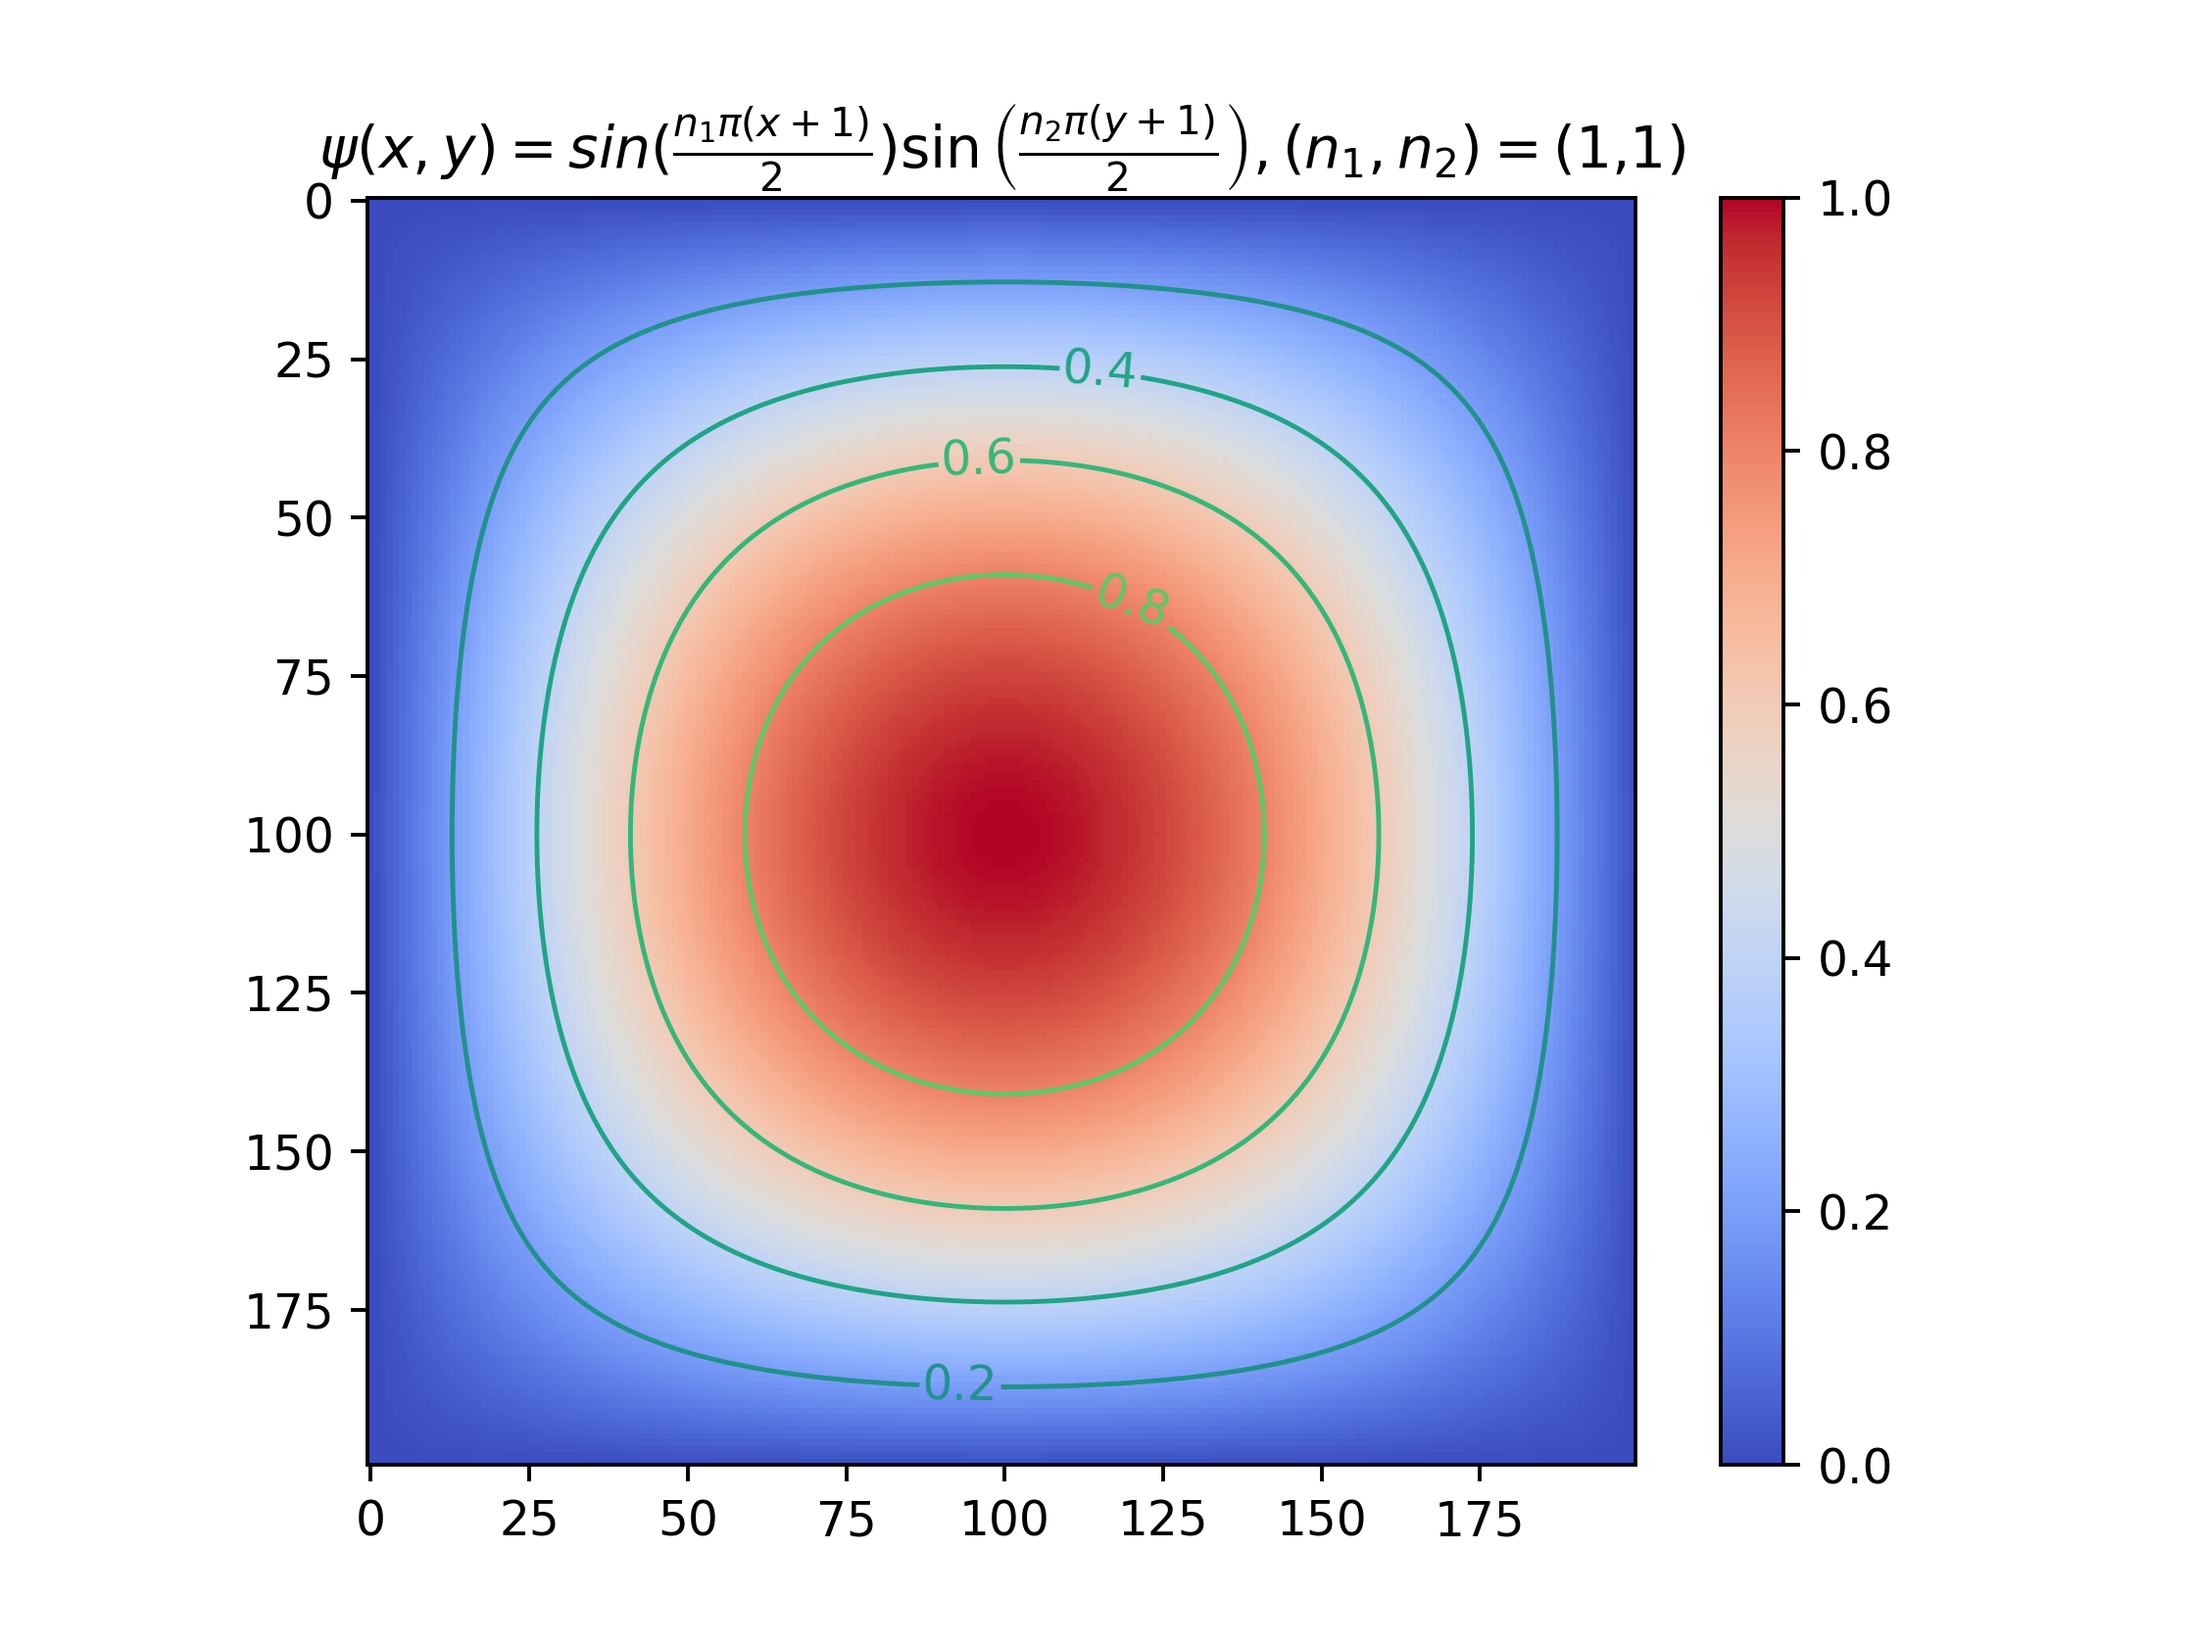
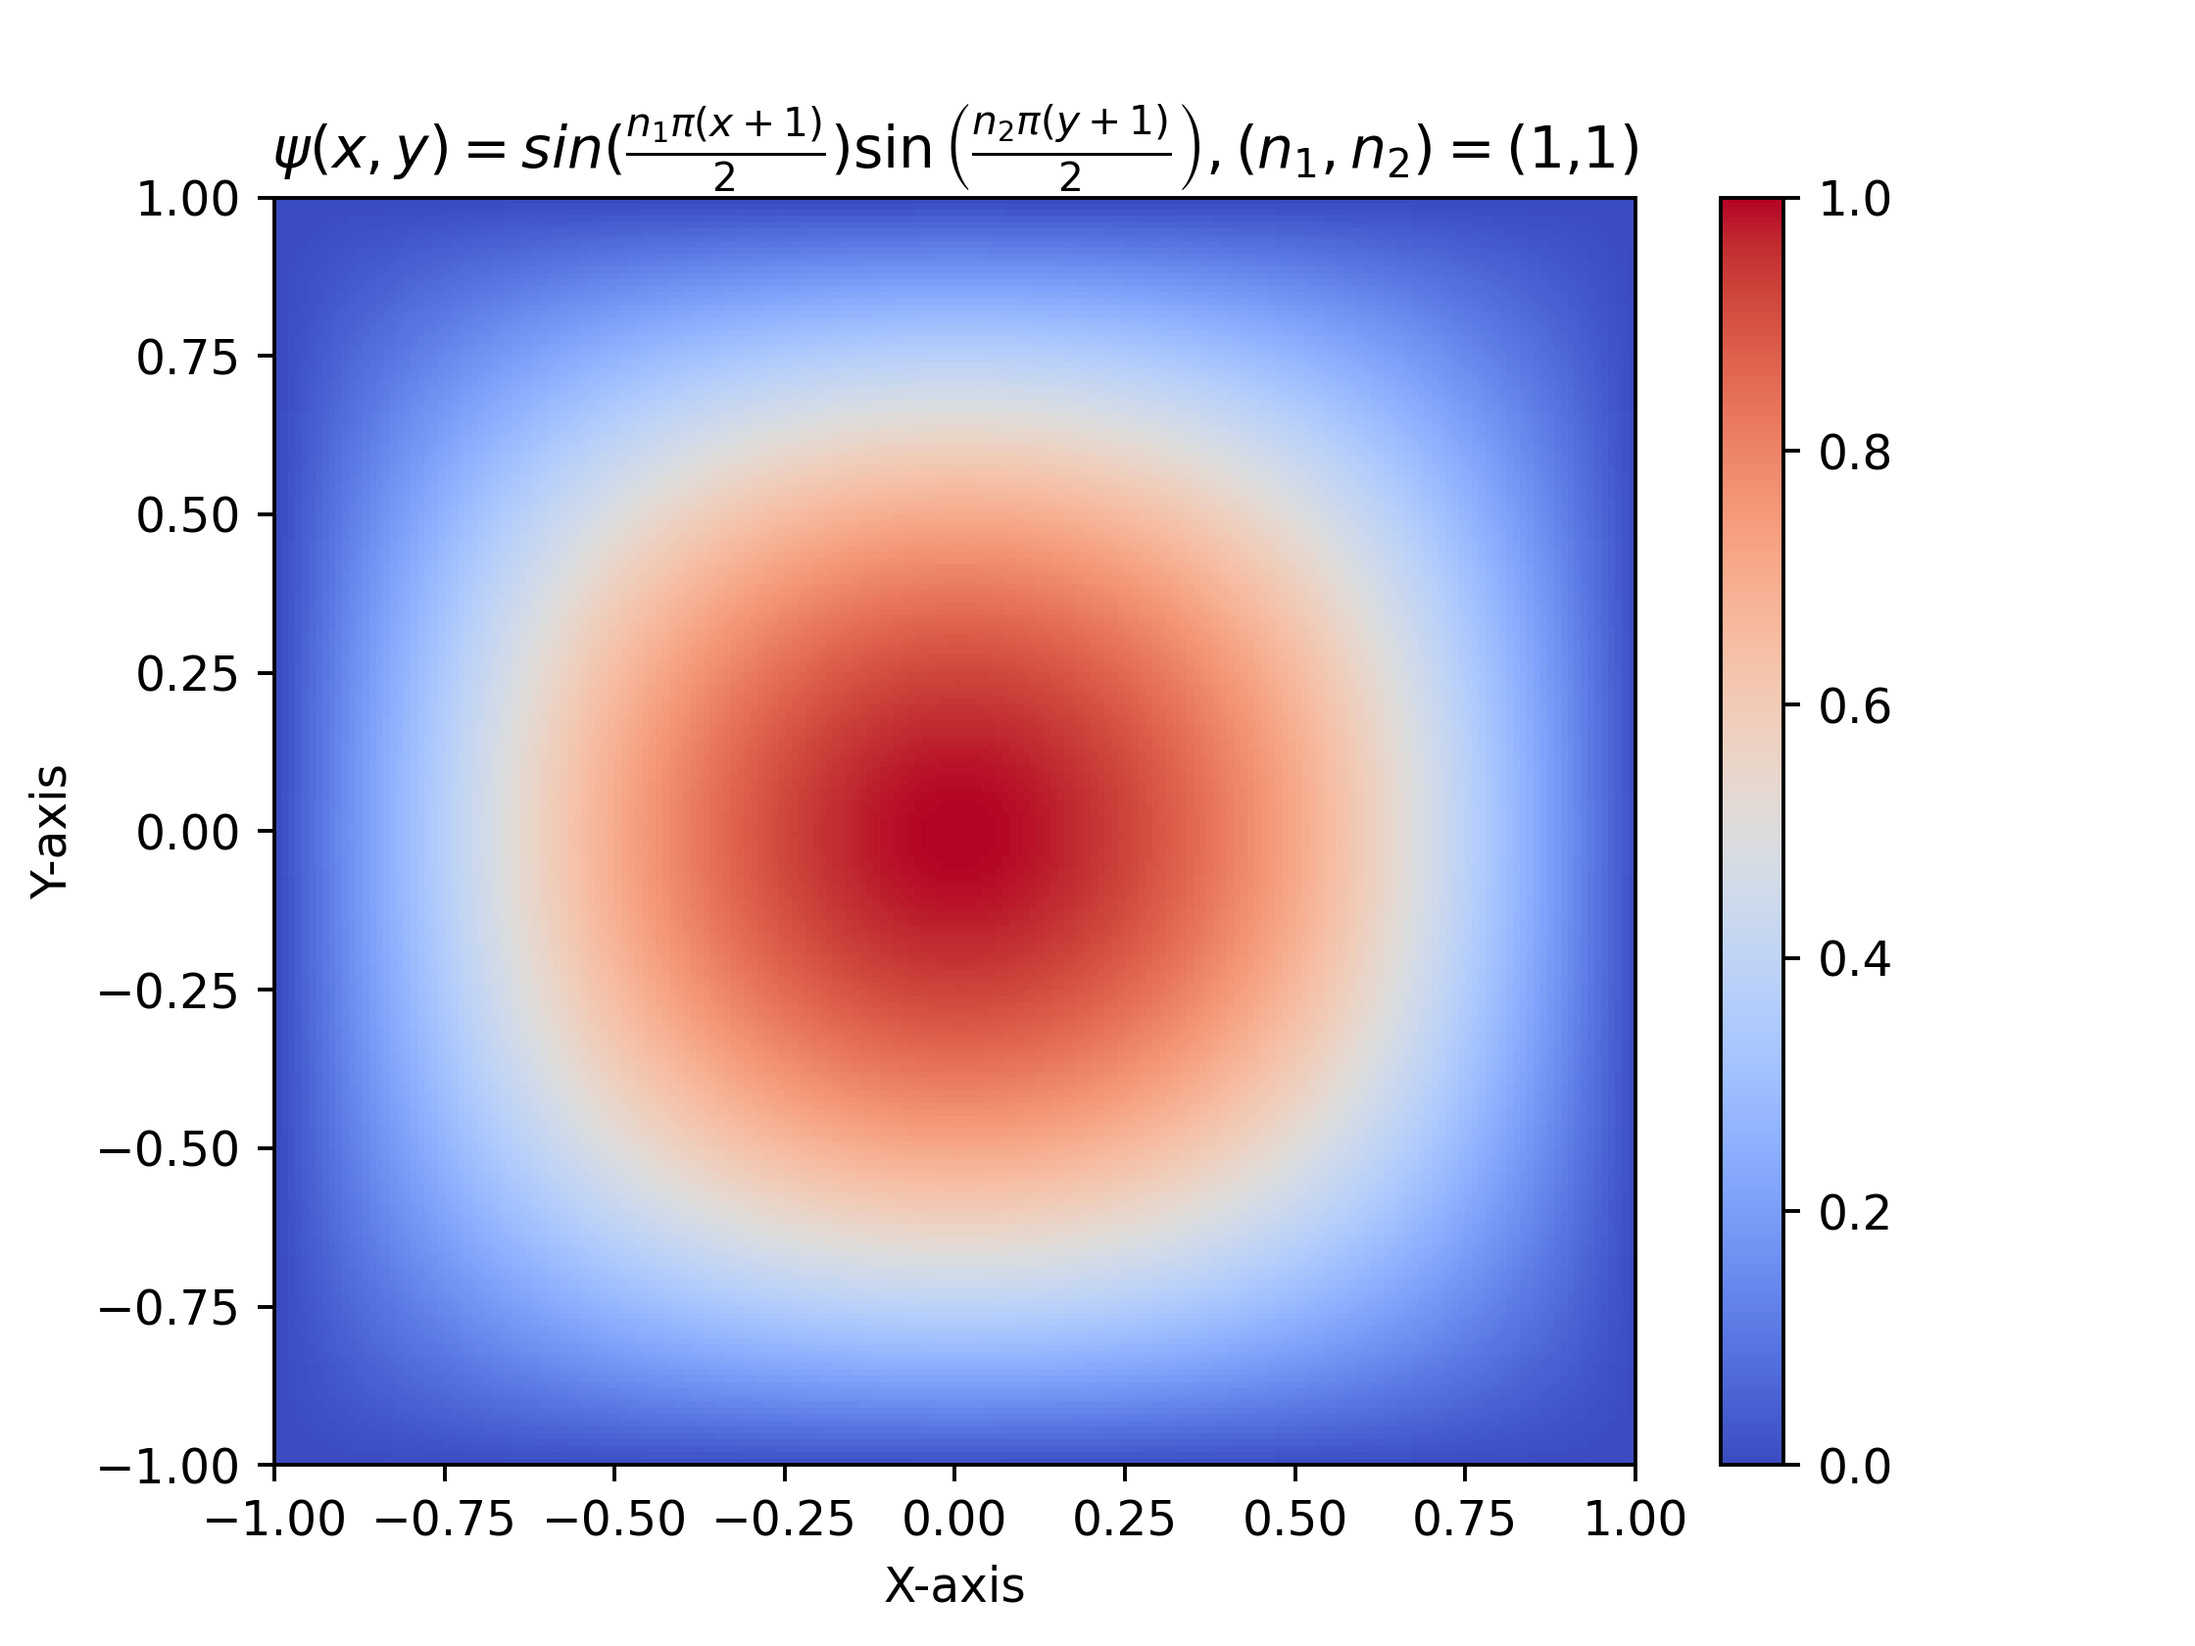
lab10

diff --git a/lab10/Lukasz-Stepien-laboratorium-10-kod.py b/lab10/Lukasz-Stepien-laboratorium-10-kod.py
@@ -1,12 +1,12 @@
-from numpy import arange,sin,pi
+from numpy import arange,sin,pi,abs,linspace
 from pylab import meshgrid,cm,imshow,contour,clabel,colorbar,axis,title,show
 import latexify
 import matplotlib.pyplot as plt
 from mpl_toolkits.mplot3d import Axes3D
+import matplotlib.ticker as ticker
 
 def psi(x,y,L,n1,n2):
     return (2/L)*sin((n1*pi*(x+L/2)/L))*sin((n2*pi*(y+L/2)/L))
-
 
 def exact_graph(n1,n2):
     plt.clf()
@@ -14,16 +14,22 @@ def exact_graph(n1,n2):
     y = arange(-1.0,1.0,10**(-2))
     X,Y = meshgrid(x, y) 
     Z = psi(X,Y,2,n1,n2) # evaluation of the function on the grid
-    im = imshow(Z,cmap=cm.coolwarm) # drawing the function
+    im = imshow(Z,cmap=cm.coolwarm,extent=[-1, 1, -1, 1], aspect='auto') # drawing the function
     cset = contour(Z,arange(-1,1.5,0.2),linewidths=1)
     clabel(cset,inline=True,fmt='%1.1f',fontsize=10)
-    colorbar(im) 
+    colorbar(im)
+    plt.xlabel('X-axis')
+    plt.ylabel('Y-axis')
+    plt.xlim(-1, 1)
+    plt.ylim(-1, 1)
     title(r'$\psi(x, y) = sin{({\frac{n_1 {\pi} \left( x + 1\right)}{2}})} \sin{\left({\frac{n_2 {\pi} \left( y + 1 \right)}{2}} \right)},  (n_1,n_2)=$'+f'({n1},{n2})')
     plt.savefig(f"lab10/pictures/Wykres konturowy funkcji ψ(x,y) dla (n1,n2)=({n1},{n2})", dpi=350)
-
     # plt.show()
+    return Z
     
-exact_graph(1,1)
-exact_graph(1,2)
-exact_graph(2,1)
-exact_graph(2,2)
+Z11=exact_graph(1,1)
+Z12=exact_graph(1,2)
+Z21=exact_graph(2,1)
+Z22=exact_graph(2,2)
+
+print(Z22)
